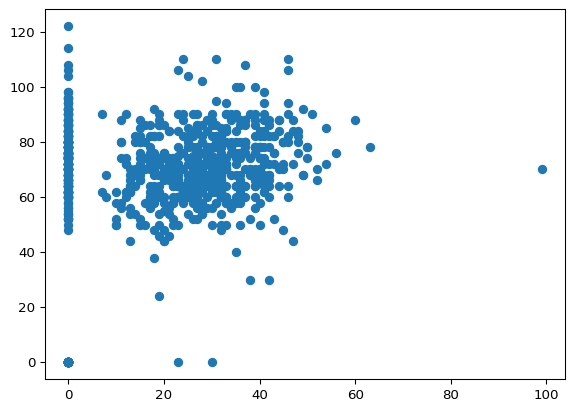
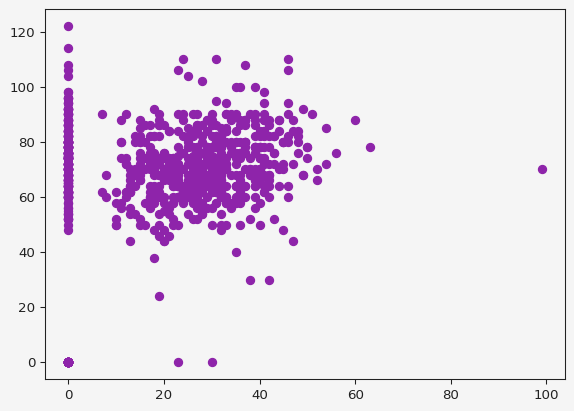
adding the custom brand to the individual projects

diff --git a/_site/publications/publications.html b/_site/publications/publications.html
@@ -126,54 +126,54 @@ ul.task-list li input[type="checkbox"] {
 
 
 
-<div id="49be623b" class="cell" data-execution_count="3">
+<div id="9014c551" class="cell" data-execution_count="3">
 <div class="cell-output cell-output-display" data-execution_count="3">
-<div id="ktavpwppmk" style="padding-left:0px;padding-right:0px;padding-top:10px;padding-bottom:10px;overflow-x:auto;overflow-y:auto;width:auto;height:auto;">
+<div id="bkqbrrbbvq" style="padding-left:0px;padding-right:0px;padding-top:10px;padding-bottom:10px;overflow-x:auto;overflow-y:auto;width:auto;height:auto;">
 <style>
-#ktavpwppmk table {
+#bkqbrrbbvq table {
           font-family: -apple-system, BlinkMacSystemFont, 'Segoe UI', Roboto, Oxygen, Ubuntu, Cantarell, 'Helvetica Neue', 'Fira Sans', 'Droid Sans', Arial, sans-serif;
           -webkit-font-smoothing: antialiased;
           -moz-osx-font-smoothing: grayscale;
         }
 
-#ktavpwppmk thead, tbody, tfoot, tr, td, th { border-style: none; }
+#bkqbrrbbvq thead, tbody, tfoot, tr, td, th { border-style: none; }
  tr { background-color: transparent; }
-#ktavpwppmk p { margin: 0; padding: 0; }
- #ktavpwppmk .gt_table { display: table; border-collapse: collapse; line-height: normal; margin-left: auto; margin-right: auto; color: #333333; font-size: 16px; font-weight: normal; font-style: normal; background-color: #FFFFFF; width: auto; border-top-style: solid; border-top-width: 2px; border-top-color: #A8A8A8; border-right-style: none; border-right-width: 2px; border-right-color: #D3D3D3; border-bottom-style: solid; border-bottom-width: 2px; border-bottom-color: #A8A8A8; border-left-style: none; border-left-width: 2px; border-left-color: #D3D3D3; }
- #ktavpwppmk .gt_caption { padding-top: 4px; padding-bottom: 4px; }
- #ktavpwppmk .gt_title { color: #333333; font-size: 125%; font-weight: initial; padding-top: 2px; padding-bottom: 2px; padding-left: 15px; padding-right: 15px; border-bottom-color: #FFFFFF; border-bottom-width: 0; }
- #ktavpwppmk .gt_subtitle { color: #333333; font-size: 85%; font-weight: initial; padding-top: 1px; padding-bottom: 3px; padding-left: 15px; padding-right: 15px; border-top-color: #FFFFFF; border-top-width: 0; }
- #ktavpwppmk .gt_heading { background-color: #FFFFFF; text-align: center; border-bottom-color: #FFFFFF; border-left-style: none; border-left-width: 1px; border-left-color: #D3D3D3; border-right-style: none; border-right-width: 1px; border-right-color: #D3D3D3; }
- #ktavpwppmk .gt_bottom_border { border-bottom-style: solid; border-bottom-width: 2px; border-bottom-color: #D3D3D3; }
- #ktavpwppmk .gt_col_headings { border-top-style: solid; border-top-width: 2px; border-top-color: #D3D3D3; border-bottom-style: solid; border-bottom-width: 2px; border-bottom-color: #D3D3D3; border-left-style: none; border-left-width: 1px; border-left-color: #D3D3D3; border-right-style: none; border-right-width: 1px; border-right-color: #D3D3D3; }
- #ktavpwppmk .gt_col_heading { color: #333333; background-color: #FFFFFF; font-size: 100%; font-weight: normal; text-transform: inherit; border-left-style: none; border-left-width: 1px; border-left-color: #D3D3D3; border-right-style: none; border-right-width: 1px; border-right-color: #D3D3D3; vertical-align: bottom; padding-top: 2px; padding-bottom: 3px; padding-left: 15px; padding-right: 15px; overflow-x: hidden; }
- #ktavpwppmk .gt_column_spanner_outer { color: #333333; background-color: #FFFFFF; font-size: 100%; font-weight: normal; text-transform: inherit; padding-top: 0; padding-bottom: 0; padding-left: 4px; padding-right: 4px; }
- #ktavpwppmk .gt_column_spanner_outer:first-child { padding-left: 0; }
- #ktavpwppmk .gt_column_spanner_outer:last-child { padding-right: 0; }
- #ktavpwppmk .gt_column_spanner { border-bottom-style: solid; border-bottom-width: 2px; border-bottom-color: #D3D3D3; vertical-align: bottom; padding-top: 2px; padding-bottom: 2px; overflow-x: hidden; display: inline-block; width: 100%; }
- #ktavpwppmk .gt_spanner_row { border-bottom-style: hidden; }
- #ktavpwppmk .gt_group_heading { padding-top: 4px; padding-bottom: 4px; padding-left: 15px; padding-right: 15px; color: #333333; background-color: #FFFFFF; font-size: 100%; font-weight: initial; text-transform: inherit; border-top-style: solid; border-top-width: 2px; border-top-color: #D3D3D3; border-bottom-style: solid; border-bottom-width: 2px; border-bottom-color: #D3D3D3; border-left-style: none; border-left-width: 1px; border-left-color: #D3D3D3; border-right-style: none; border-right-width: 1px; border-right-color: #D3D3D3; vertical-align: middle; text-align: left; }
- #ktavpwppmk .gt_empty_group_heading { padding: 0.5px; color: #333333; background-color: #FFFFFF; font-size: 100%; font-weight: initial; border-top-style: solid; border-top-width: 2px; border-top-color: #D3D3D3; border-bottom-style: solid; border-bottom-width: 2px; border-bottom-color: #D3D3D3; vertical-align: middle; }
- #ktavpwppmk .gt_from_md> :first-child { margin-top: 0; }
- #ktavpwppmk .gt_from_md> :last-child { margin-bottom: 0; }
- #ktavpwppmk .gt_row { padding-top: 4px; padding-bottom: 4px; padding-left: 15px; padding-right: 15px; margin: 10px; border-top-style: solid; border-top-width: 1px; border-top-color: #D3D3D3; border-left-style: none; border-left-width: 1px; border-left-color: #D3D3D3; border-right-style: none; border-right-width: 1px; border-right-color: #D3D3D3; vertical-align: middle; overflow-x: hidden; }
- #ktavpwppmk .gt_stub { color: #333333; background-color: #FFFFFF; font-size: 100%; font-weight: initial; text-transform: inherit; border-right-style: solid; border-right-width: 2px; border-right-color: #D3D3D3; padding-left: 15px; padding-right: 15px; }
- #ktavpwppmk .gt_stub_row_group { color: #333333; background-color: #FFFFFF; font-size: 100%; font-weight: initial; text-transform: inherit; border-right-style: solid; border-right-width: 2px; border-right-color: #D3D3D3; padding-left: 15px; padding-right: 15px; vertical-align: top; }
- #ktavpwppmk .gt_row_group_first td { border-top-width: 2px; }
- #ktavpwppmk .gt_row_group_first th { border-top-width: 2px; }
- #ktavpwppmk .gt_striped { background-color: rgba(128,128,128,0.05); }
- #ktavpwppmk .gt_table_body { border-top-style: solid; border-top-width: 2px; border-top-color: #D3D3D3; border-bottom-style: solid; border-bottom-width: 2px; border-bottom-color: #D3D3D3; }
- #ktavpwppmk .gt_sourcenotes { color: #333333; background-color: #FFFFFF; border-bottom-style: none; border-bottom-width: 2px; border-bottom-color: #D3D3D3; border-left-style: none; border-left-width: 2px; border-left-color: #D3D3D3; border-right-style: none; border-right-width: 2px; border-right-color: #D3D3D3; }
- #ktavpwppmk .gt_sourcenote { font-size: 90%; padding-top: 2px; padding-bottom: 2px; padding-left: 15px; padding-right: 15px; text-align: left; }
- #ktavpwppmk .gt_left { text-align: left; }
- #ktavpwppmk .gt_center { text-align: center; }
- #ktavpwppmk .gt_right { text-align: right; font-variant-numeric: tabular-nums; }
- #ktavpwppmk .gt_font_normal { font-weight: normal; }
- #ktavpwppmk .gt_font_bold { font-weight: bold; }
- #ktavpwppmk .gt_font_italic { font-style: italic; }
- #ktavpwppmk .gt_super { font-size: 65%; }
- #ktavpwppmk .gt_footnote_marks { font-size: 75%; vertical-align: 0.4em; position: initial; }
- #ktavpwppmk .gt_asterisk { font-size: 100%; vertical-align: 0; }
+#bkqbrrbbvq p { margin: 0; padding: 0; }
+ #bkqbrrbbvq .gt_table { display: table; border-collapse: collapse; line-height: normal; margin-left: auto; margin-right: auto; color: #333333; font-size: 16px; font-weight: normal; font-style: normal; background-color: #FFFFFF; width: auto; border-top-style: solid; border-top-width: 2px; border-top-color: #A8A8A8; border-right-style: none; border-right-width: 2px; border-right-color: #D3D3D3; border-bottom-style: solid; border-bottom-width: 2px; border-bottom-color: #A8A8A8; border-left-style: none; border-left-width: 2px; border-left-color: #D3D3D3; }
+ #bkqbrrbbvq .gt_caption { padding-top: 4px; padding-bottom: 4px; }
+ #bkqbrrbbvq .gt_title { color: #333333; font-size: 125%; font-weight: initial; padding-top: 2px; padding-bottom: 2px; padding-left: 15px; padding-right: 15px; border-bottom-color: #FFFFFF; border-bottom-width: 0; }
+ #bkqbrrbbvq .gt_subtitle { color: #333333; font-size: 85%; font-weight: initial; padding-top: 1px; padding-bottom: 3px; padding-left: 15px; padding-right: 15px; border-top-color: #FFFFFF; border-top-width: 0; }
+ #bkqbrrbbvq .gt_heading { background-color: #FFFFFF; text-align: center; border-bottom-color: #FFFFFF; border-left-style: none; border-left-width: 1px; border-left-color: #D3D3D3; border-right-style: none; border-right-width: 1px; border-right-color: #D3D3D3; }
+ #bkqbrrbbvq .gt_bottom_border { border-bottom-style: solid; border-bottom-width: 2px; border-bottom-color: #D3D3D3; }
+ #bkqbrrbbvq .gt_col_headings { border-top-style: solid; border-top-width: 2px; border-top-color: #D3D3D3; border-bottom-style: solid; border-bottom-width: 2px; border-bottom-color: #D3D3D3; border-left-style: none; border-left-width: 1px; border-left-color: #D3D3D3; border-right-style: none; border-right-width: 1px; border-right-color: #D3D3D3; }
+ #bkqbrrbbvq .gt_col_heading { color: #333333; background-color: #FFFFFF; font-size: 100%; font-weight: normal; text-transform: inherit; border-left-style: none; border-left-width: 1px; border-left-color: #D3D3D3; border-right-style: none; border-right-width: 1px; border-right-color: #D3D3D3; vertical-align: bottom; padding-top: 2px; padding-bottom: 3px; padding-left: 15px; padding-right: 15px; overflow-x: hidden; }
+ #bkqbrrbbvq .gt_column_spanner_outer { color: #333333; background-color: #FFFFFF; font-size: 100%; font-weight: normal; text-transform: inherit; padding-top: 0; padding-bottom: 0; padding-left: 4px; padding-right: 4px; }
+ #bkqbrrbbvq .gt_column_spanner_outer:first-child { padding-left: 0; }
+ #bkqbrrbbvq .gt_column_spanner_outer:last-child { padding-right: 0; }
+ #bkqbrrbbvq .gt_column_spanner { border-bottom-style: solid; border-bottom-width: 2px; border-bottom-color: #D3D3D3; vertical-align: bottom; padding-top: 2px; padding-bottom: 2px; overflow-x: hidden; display: inline-block; width: 100%; }
+ #bkqbrrbbvq .gt_spanner_row { border-bottom-style: hidden; }
+ #bkqbrrbbvq .gt_group_heading { padding-top: 4px; padding-bottom: 4px; padding-left: 15px; padding-right: 15px; color: #333333; background-color: #FFFFFF; font-size: 100%; font-weight: initial; text-transform: inherit; border-top-style: solid; border-top-width: 2px; border-top-color: #D3D3D3; border-bottom-style: solid; border-bottom-width: 2px; border-bottom-color: #D3D3D3; border-left-style: none; border-left-width: 1px; border-left-color: #D3D3D3; border-right-style: none; border-right-width: 1px; border-right-color: #D3D3D3; vertical-align: middle; text-align: left; }
+ #bkqbrrbbvq .gt_empty_group_heading { padding: 0.5px; color: #333333; background-color: #FFFFFF; font-size: 100%; font-weight: initial; border-top-style: solid; border-top-width: 2px; border-top-color: #D3D3D3; border-bottom-style: solid; border-bottom-width: 2px; border-bottom-color: #D3D3D3; vertical-align: middle; }
+ #bkqbrrbbvq .gt_from_md> :first-child { margin-top: 0; }
+ #bkqbrrbbvq .gt_from_md> :last-child { margin-bottom: 0; }
+ #bkqbrrbbvq .gt_row { padding-top: 4px; padding-bottom: 4px; padding-left: 15px; padding-right: 15px; margin: 10px; border-top-style: solid; border-top-width: 1px; border-top-color: #D3D3D3; border-left-style: none; border-left-width: 1px; border-left-color: #D3D3D3; border-right-style: none; border-right-width: 1px; border-right-color: #D3D3D3; vertical-align: middle; overflow-x: hidden; }
+ #bkqbrrbbvq .gt_stub { color: #333333; background-color: #FFFFFF; font-size: 100%; font-weight: initial; text-transform: inherit; border-right-style: solid; border-right-width: 2px; border-right-color: #D3D3D3; padding-left: 15px; padding-right: 15px; }
+ #bkqbrrbbvq .gt_stub_row_group { color: #333333; background-color: #FFFFFF; font-size: 100%; font-weight: initial; text-transform: inherit; border-right-style: solid; border-right-width: 2px; border-right-color: #D3D3D3; padding-left: 15px; padding-right: 15px; vertical-align: top; }
+ #bkqbrrbbvq .gt_row_group_first td { border-top-width: 2px; }
+ #bkqbrrbbvq .gt_row_group_first th { border-top-width: 2px; }
+ #bkqbrrbbvq .gt_striped { background-color: rgba(128,128,128,0.05); }
+ #bkqbrrbbvq .gt_table_body { border-top-style: solid; border-top-width: 2px; border-top-color: #D3D3D3; border-bottom-style: solid; border-bottom-width: 2px; border-bottom-color: #D3D3D3; }
+ #bkqbrrbbvq .gt_sourcenotes { color: #333333; background-color: #FFFFFF; border-bottom-style: none; border-bottom-width: 2px; border-bottom-color: #D3D3D3; border-left-style: none; border-left-width: 2px; border-left-color: #D3D3D3; border-right-style: none; border-right-width: 2px; border-right-color: #D3D3D3; }
+ #bkqbrrbbvq .gt_sourcenote { font-size: 90%; padding-top: 2px; padding-bottom: 2px; padding-left: 15px; padding-right: 15px; text-align: left; }
+ #bkqbrrbbvq .gt_left { text-align: left; }
+ #bkqbrrbbvq .gt_center { text-align: center; }
+ #bkqbrrbbvq .gt_right { text-align: right; font-variant-numeric: tabular-nums; }
+ #bkqbrrbbvq .gt_font_normal { font-weight: normal; }
+ #bkqbrrbbvq .gt_font_bold { font-weight: bold; }
+ #bkqbrrbbvq .gt_font_italic { font-style: italic; }
+ #bkqbrrbbvq .gt_super { font-size: 65%; }
+ #bkqbrrbbvq .gt_footnote_marks { font-size: 75%; vertical-align: 0.4em; position: initial; }
+ #bkqbrrbbvq .gt_asterisk { font-size: 100%; vertical-align: 0; }
  
 </style>
 <table class="gt_table" data-quarto-disable-processing="false" data-quarto-bootstrap="false">

diff --git a/_site/projects/diabetes/diabetes.html b/_site/projects/diabetes/diabetes.html
@@ -182,17 +182,21 @@ pre > code.sourceCode > span > a:first-child::before { text-decoration: underlin
 
 <section id="markdown-text" class="level2">
 <h2 class="anchored" data-anchor-id="markdown-text">markdown text</h2>
-<div id="22716b4d" class="cell" data-execution_count="1">
+<div id="896201c6" class="cell" data-execution_count="1">
 <div class="sourceCode cell-code" id="cb1"><pre class="sourceCode python code-with-copy"><code class="sourceCode python"><span id="cb1-1"><a href="#cb1-1" aria-hidden="true" tabindex="-1"></a><span class="im">import</span> polars <span class="im">as</span> pl</span>
-<span id="cb1-2"><a href="#cb1-2" aria-hidden="true" tabindex="-1"></a><span class="im">import</span> matplotlib.pyplot <span class="im">as</span> plt</span>
-<span id="cb1-3"><a href="#cb1-3" aria-hidden="true" tabindex="-1"></a></span>
-<span id="cb1-4"><a href="#cb1-4" aria-hidden="true" tabindex="-1"></a></span>
-<span id="cb1-5"><a href="#cb1-5" aria-hidden="true" tabindex="-1"></a><span class="im">from</span> pyprojroot.here <span class="im">import</span> here</span></code><button title="Copy to Clipboard" class="code-copy-button"><i class="bi"></i></button></pre></div>
+<span id="cb1-2"><a href="#cb1-2" aria-hidden="true" tabindex="-1"></a><span class="im">import</span> seaborn <span class="im">as</span> sns</span>
+<span id="cb1-3"><a href="#cb1-3" aria-hidden="true" tabindex="-1"></a><span class="im">import</span> matplotlib.pyplot <span class="im">as</span> plt</span>
+<span id="cb1-4"><a href="#cb1-4" aria-hidden="true" tabindex="-1"></a><span class="im">from</span> mplstyle <span class="im">import</span> mplstyle_from_brand</span>
+<span id="cb1-5"><a href="#cb1-5" aria-hidden="true" tabindex="-1"></a><span class="im">from</span> brand_yml <span class="im">import</span> Brand</span>
+<span id="cb1-6"><a href="#cb1-6" aria-hidden="true" tabindex="-1"></a></span>
+<span id="cb1-7"><a href="#cb1-7" aria-hidden="true" tabindex="-1"></a><span class="im">from</span> pyprojroot.here <span class="im">import</span> here</span>
+<span id="cb1-8"><a href="#cb1-8" aria-hidden="true" tabindex="-1"></a></span>
+<span id="cb1-9"><a href="#cb1-9" aria-hidden="true" tabindex="-1"></a>mplstyle_from_brand(here(<span class="st">"_brand.yml"</span>))</span></code><button title="Copy to Clipboard" class="code-copy-button"><i class="bi"></i></button></pre></div>
 </div>
 </section>
 <section id="now-get-the-data" class="level2">
 <h2 class="anchored" data-anchor-id="now-get-the-data">Now get the data</h2>
-<div id="86450dad" class="cell" data-execution_count="2">
+<div id="580332a8" class="cell" data-execution_count="2">
 <div class="sourceCode cell-code" id="cb2"><pre class="sourceCode python code-with-copy"><code class="sourceCode python"><span id="cb2-1"><a href="#cb2-1" aria-hidden="true" tabindex="-1"></a>df <span class="op">=</span> pl.read_csv(here(<span class="st">"projects/diabetes/diabetes.csv"</span>))</span>
 <span id="cb2-2"><a href="#cb2-2" aria-hidden="true" tabindex="-1"></a></span>
 <span id="cb2-3"><a href="#cb2-3" aria-hidden="true" tabindex="-1"></a><span class="bu">print</span>(df)</span></code><button title="Copy to Clipboard" class="code-copy-button"><i class="bi"></i></button></pre></div>
@@ -218,7 +222,7 @@ pre > code.sourceCode > span > a:first-child::before { text-decoration: underlin
 └─────────────┴─────────┴───────────────┴───────────────┴───┴──────┴───────────────┴─────┴─────────┘</code></pre>
 </div>
 </div>
-<div id="2b0e0273" class="cell" data-execution_count="3">
+<div id="b3445ce5" class="cell" data-execution_count="3">
 <div class="sourceCode cell-code" id="cb4"><pre class="sourceCode python code-with-copy"><code class="sourceCode python"><span id="cb4-1"><a href="#cb4-1" aria-hidden="true" tabindex="-1"></a>fig, ax <span class="op">=</span> plt.subplots()</span>
 <span id="cb4-2"><a href="#cb4-2" aria-hidden="true" tabindex="-1"></a>ax.scatter(</span>
 <span id="cb4-3"><a href="#cb4-3" aria-hidden="true" tabindex="-1"></a>    x <span class="op">=</span> df[<span class="st">"SkinThickness"</span>],</span>

diff --git a/_site/projects.html b/_site/projects.html
@@ -225,7 +225,7 @@ window.Quarto = {
     </div>
 </div>
 <div class="list quarto-listing-default">
-<div class="quarto-post image-right" data-index="0" data-listing-file-modified-sort="1742314843652" data-listing-reading-time-sort="1" data-listing-word-count-sort="91">
+<div class="quarto-post image-right" data-index="0" data-listing-file-modified-sort="1742315564987" data-listing-reading-time-sort="1" data-listing-word-count-sort="97">
 <div class="thumbnail">
 <p><a href="./projects/death_rates/death_rates.html" class="no-external"></a></p><a href="./projects/death_rates/death_rates.html" class="no-external">
 <p class="card-img-top"><img src="projects\death_rates\death_rates_files\figure-html\cell-5-output-1.png"  class="thumbnail-image card-img"/></p>
@@ -247,7 +247,7 @@ window.Quarto = {
 </a>
 </div>
 </div>
-<div class="quarto-post image-right" data-index="1" data-listing-file-modified-sort="1742315121051" data-listing-reading-time-sort="1" data-listing-word-count-sort="31">
+<div class="quarto-post image-right" data-index="1" data-listing-file-modified-sort="1742315647052" data-listing-reading-time-sort="1" data-listing-word-count-sort="40">
 <div class="thumbnail">
 <p><a href="./projects/diabetes/diabetes.html" class="no-external"></a></p><a href="./projects/diabetes/diabetes.html" class="no-external">
 <p class="card-img-top"><img src="projects\diabetes\diabetes_files\figure-html\cell-4-output-1.png"  class="thumbnail-image card-img"/></p>
@@ -263,14 +263,14 @@ window.Quarto = {
 <div class="listing-description">
 <a href="./projects/diabetes/diabetes.html" class="no-external">
 
-<div id="22716b4d" class="cell" data-execution_count="1">
+<div id="896201c6" class="cell" data-execution_count="1">
 <div class="sourceCode cell-code" id="cb1"><pre class="sourceCode python code-with-copy"><code class="sourceCode python"><span id="cb1-1"><span class="im">import</span> polars <span class="im">as</span> pl</span>
-<span id="cb1-2"><span class="im">import</span> matplotlib.pyplot <span class="im">as</span> plt</span>
-<span id="cb1-3"></span>
-<span id="cb1-4"></span>
-<span id="cb1-5"><span class="im">from</span> pyprojroot.here <span class="im">import</span> here</span></code></pre></div>
-</div>
-</a>
+<span id="cb1-2"><span class="im">import</span> seaborn <span class="im">as</span> sns</span>
+<span id="cb1-3"><span class="im">import</span> matplotlib.pyplot <span class="im">as</span> plt</span>
+<span id="cb1-4"><span class="im">from</span> mplstyle <span class="im">import</span> mplstyle_from_brand</span>
+<span id="cb1-5"><span class="im">from</span> brand_yml <span class="im">import</span> Brand</span>
+<span id="cb1-6"></span>
+<span id="cb1-7"><span class="im">from</span> pyprojroot.here <span class="im">import</span>…</span><span id="cb1-8"></span><span id="cb1-9"><span class="st"></span></span></code></pre></div></div></a>
 </div>
 </div>
 <div class="metadata">

diff --git a/_site/projects/death_rates/death_rates.html b/_site/projects/death_rates/death_rates.html
@@ -176,7 +176,7 @@ pre > code.sourceCode > span > a:first-child::before { text-decoration: underlin
 </header>
 
 
-<div id="e1f0d81a" class="cell" data-execution_count="2">
+<div id="c6d85320" class="cell" data-execution_count="2">
 <div class="sourceCode cell-code" id="cb1"><pre class="sourceCode python code-with-copy"><code class="sourceCode python"><span id="cb1-1"><a href="#cb1-1" aria-hidden="true" tabindex="-1"></a>df <span class="op">=</span> (</span>
 <span id="cb1-2"><a href="#cb1-2" aria-hidden="true" tabindex="-1"></a>    pl.read_csv(here(<span class="st">"projects/death_rates/death_rates.csv"</span>))</span>
 <span id="cb1-3"><a href="#cb1-3" aria-hidden="true" tabindex="-1"></a>    .with_columns(pl.col(<span class="st">"Year"</span>)</span>
@@ -184,7 +184,7 @@ pre > code.sourceCode > span > a:first-child::before { text-decoration: underlin
 <span id="cb1-5"><a href="#cb1-5" aria-hidden="true" tabindex="-1"></a>    .<span class="bu">str</span>.to_date(<span class="bu">format</span><span class="op">=</span><span class="st">"%Y"</span>))</span>
 <span id="cb1-6"><a href="#cb1-6" aria-hidden="true" tabindex="-1"></a>)</span></code><button title="Copy to Clipboard" class="code-copy-button"><i class="bi"></i></button></pre></div>
 </div>
-<div id="da0be953" class="cell" data-execution_count="3">
+<div id="f16142d8" class="cell" data-execution_count="3">
 <div class="sourceCode cell-code" id="cb2"><pre class="sourceCode python code-with-copy"><code class="sourceCode python"><span id="cb2-1"><a href="#cb2-1" aria-hidden="true" tabindex="-1"></a>df.head()</span></code><button title="Copy to Clipboard" class="code-copy-button"><i class="bi"></i></button></pre></div>
 <div class="cell-output cell-output-display" data-execution_count="3">
 <div><style>
@@ -241,7 +241,7 @@ pre > code.sourceCode > span > a:first-child::before { text-decoration: underlin
 </div>
 <p>The <code>year</code> column is an integer. Make a new column where the year is a date time.</p>
 <p>Now make a single line chart for all leading causes of death.</p>
-<div id="50c603fe" class="cell" data-execution_count="4">
+<div id="635ecefb" class="cell" data-execution_count="4">
 <div class="sourceCode cell-code" id="cb3"><pre class="sourceCode python code-with-copy"><code class="sourceCode python"><span id="cb3-1"><a href="#cb3-1" aria-hidden="true" tabindex="-1"></a>sns.lineplot(data <span class="op">=</span> df, x <span class="op">=</span> <span class="st">'Year'</span>, y <span class="op">=</span> <span class="st">'Age Adjusted Death Rate'</span>, hue <span class="op">=</span> <span class="st">'Cause'</span>)</span></code><button title="Copy to Clipboard" class="code-copy-button"><i class="bi"></i></button></pre></div>
 <div class="cell-output cell-output-display">
 <div>

diff --git a/_site/index.html b/_site/index.html
@@ -125,7 +125,7 @@ ul.task-list li input[type="checkbox"] {
 <div class="quarto-title-meta">
   </div>
 </header><main class="content" id="quarto-document-content">
-<div id="b7cdc91c" class="cell" data-execution_count="3">
+<div id="727d2d3e" class="cell" data-execution_count="3">
 <div class="cell-output cell-output-display">
 <div>
 <figure class="figure">

diff --git a/projects/death_rates/mplstyle.py b/projects/death_rates/mplstyle.py
@@ -1,0 +1,26 @@
+import yaml
+import tempfile
+import os
+import matplotlib.pyplot as plt
+from brand_yml import Brand
+
+def mplstyle_from_brand(brand_file):
+    brand = Brand.from_yaml(brand_file)
+    fd, name = tempfile.mkstemp("mplstyle")
+    os.close(fd)
+    with open(name, "w") as out:
+        out.write("axes.facecolor: \"%s\"\n" % brand.color.palette["neutral"])
+        out.write("axes.edgecolor: \"%s\"\n" % brand.color.palette["black"])
+        out.write("axes.labelcolor: \"%s\"\n" % brand.color.palette["black"])
+        out.write("axes.titlecolor: \"%s\"\n" % brand.color.palette["black"])
+        out.write("figure.facecolor: \"%s\"\n" % brand.color.palette["neutral"])
+        out.write("figure.edgecolor: \"%s\"\n" % brand.color.palette["black"])
+        out.write("text.color: \"%s\"\n" % brand.color.palette["black"])
+        out.write("xtick.color: \"%s\"\n" % brand.color.palette["black"])
+        out.write("ytick.color: \"%s\"\n" % brand.color.palette["black"])
+
+        colors = [brand.color.palette["violet"], brand.color.palette["red"], 'g']
+        colors = [s.lstrip('#') for s in colors]
+        out.write("axes.prop_cycle: cycler(color=[%s])\n" % ", ".join([f"'{color}'" for color in colors]))
+    plt.style.use(name)
+    os.unlink(name)

diff --git a/projects/diabetes/mplstyle.py b/projects/diabetes/mplstyle.py
@@ -1,0 +1,26 @@
+import yaml
+import tempfile
+import os
+import matplotlib.pyplot as plt
+from brand_yml import Brand
+
+def mplstyle_from_brand(brand_file):
+    brand = Brand.from_yaml(brand_file)
+    fd, name = tempfile.mkstemp("mplstyle")
+    os.close(fd)
+    with open(name, "w") as out:
+        out.write("axes.facecolor: \"%s\"\n" % brand.color.palette["neutral"])
+        out.write("axes.edgecolor: \"%s\"\n" % brand.color.palette["black"])
+        out.write("axes.labelcolor: \"%s\"\n" % brand.color.palette["black"])
+        out.write("axes.titlecolor: \"%s\"\n" % brand.color.palette["black"])
+        out.write("figure.facecolor: \"%s\"\n" % brand.color.palette["neutral"])
+        out.write("figure.edgecolor: \"%s\"\n" % brand.color.palette["black"])
+        out.write("text.color: \"%s\"\n" % brand.color.palette["black"])
+        out.write("xtick.color: \"%s\"\n" % brand.color.palette["black"])
+        out.write("ytick.color: \"%s\"\n" % brand.color.palette["black"])
+
+        colors = [brand.color.palette["violet"], brand.color.palette["red"], 'g']
+        colors = [s.lstrip('#') for s in colors]
+        out.write("axes.prop_cycle: cycler(color=[%s])\n" % ", ".join([f"'{color}'" for color in colors]))
+    plt.style.use(name)
+    os.unlink(name)
